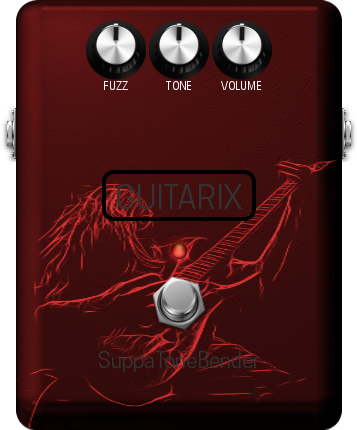
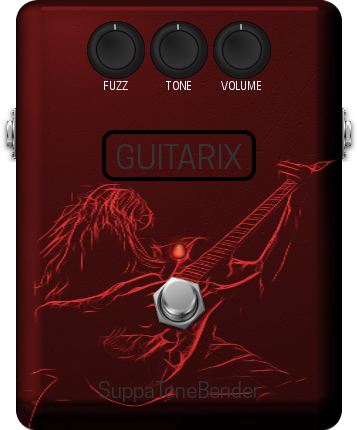
* reworked MOD UI

diff --git a/MOD/modgui/stylesheet-gxsuppatonebender.css b/MOD/modgui/stylesheet-gxsuppatonebender.css
@@ -53,7 +53,7 @@
     right:0;
     text-align:center;
     text-transform:uppercase;
-    top:160px;
+    top:120px;
 }
 
 .mod-pedal-boxy{{{cns}}} .mod-plugin-brand h1 {
@@ -91,7 +91,7 @@
     position:absolute;
     right:30px;
     text-align:center;
-    top:340px;
+    top:370px;
 }
 
 .mod-pedal-boxy{{{cns}}} .mod-plugin-name h1 {
@@ -929,6 +929,22 @@
 .mod-pedal-boxy{{{cns}}}.mod-boxy75.mod-stb {
     background-image:url(/resources/pedals/boxy75/stb.png{{{ns}}});
 }
+}
+.mod-pedal-boxy{{{cns}}}.mod-voodoo {
+    background-image:url(/resources/pedals/boxy/voodoo.png{{{ns}}});
+}
+.mod-pedal-boxy{{{cns}}}.mod-boxy75.mod-voodoo {
+    background-image:url(/resources/pedals/boxy75/voodoo.png{{{ns}}});
+}
+.mod-pedal-boxy{{{cns}}}.mod-hyperion {
+    background-image:url(/resources/pedals/boxy/hyperion.png{{{ns}}});
+}
+.mod-pedal-boxy{{{cns}}}.mod-tonemachine {
+    background-image:url(/resources/pedals/boxy/tonemachine.png{{{ns}}});
+}
+.mod-pedal-boxy{{{cns}}}.mod-boxy75.mod-tonemachine {
+    background-image:url(/resources/pedals/boxy75/tonemachine.png{{{ns}}});
+}
 
 
 /* = COLORS - Color of the pedals labels
@@ -954,6 +970,8 @@
 .mod-pedal-boxy{{{cns}}}.mod-green .mod-enumerated
 .mod-pedal-boxy{{{cns}}}.mod-saturator .mod-enumerated
 .mod-pedal-boxy{{{cns}}}.mod-stb .mod-enumerated
+.mod-pedal-boxy{{{cns}}}.mod-hyperion .mod-enumerated
+.mod-pedal-boxy{{{cns}}}.mod-tonemachine .mod-enumerated
 {
     background-image:url(/resources/utils/dropdown-arrow-white.png{{{ns}}});
 }
@@ -1031,6 +1049,15 @@
 .mod-pedal-boxy{{{cns}}}.mod-saturator h1,
 .mod-pedal-boxy{{{cns}}}.mod-saturator .mod-enumerated,
 .mod-pedal-boxy{{{cns}}}.mod-saturator .mod-control-group .mod-knob > span.mod-knob-title
+.mod-pedal-boxy{{{cns}}}.mod-voodoo h1,
+.mod-pedal-boxy{{{cns}}}.mod-voodoo .mod-enumerated,
+.mod-pedal-boxy{{{cns}}}.mod-voodoo .mod-control-group .mod-knob > span.mod-knob-title
+.mod-pedal-boxy{{{cns}}}.mod-hyperion h1,
+.mod-pedal-boxy{{{cns}}}.mod-hyperion .mod-enumerated,
+.mod-pedal-boxy{{{cns}}}.mod-hyperion .mod-control-group .mod-knob > span.mod-knob-title
+.mod-pedal-boxy{{{cns}}}.mod-tonemachine h1,
+.mod-pedal-boxy{{{cns}}}.mod-tonemachine .mod-enumerated,
+.mod-pedal-boxy{{{cns}}}.mod-tonemachine .mod-control-group .mod-knob > span.mod-knob-title
 .mod-pedal-boxy{{{cns}}}.mod-stb h1,
 .mod-pedal-boxy{{{cns}}}.mod-stb .mod-enumerated,
 .mod-pedal-boxy{{{cns}}}.mod-stb .mod-control-group .mod-knob > span.mod-knob-title
@@ -1146,4 +1173,6 @@
     background-image:url(/resources/knobs/boxy/black.png{{{ns}}});
 }.mod-pedal-boxy{{{cns}}} .mod-control-group.mod-green .mod-knob .mod-knob-image {
     background-image:url(/resources/knobs/boxy/green.png{{{ns}}});
+}.mod-pedal-boxy{{{cns}}} .mod-control-group.mod-cairo .mod-knob .mod-knob-image {
+    background-image:url(/resources/knobs/boxy/cairo.png{{{ns}}});
 }
